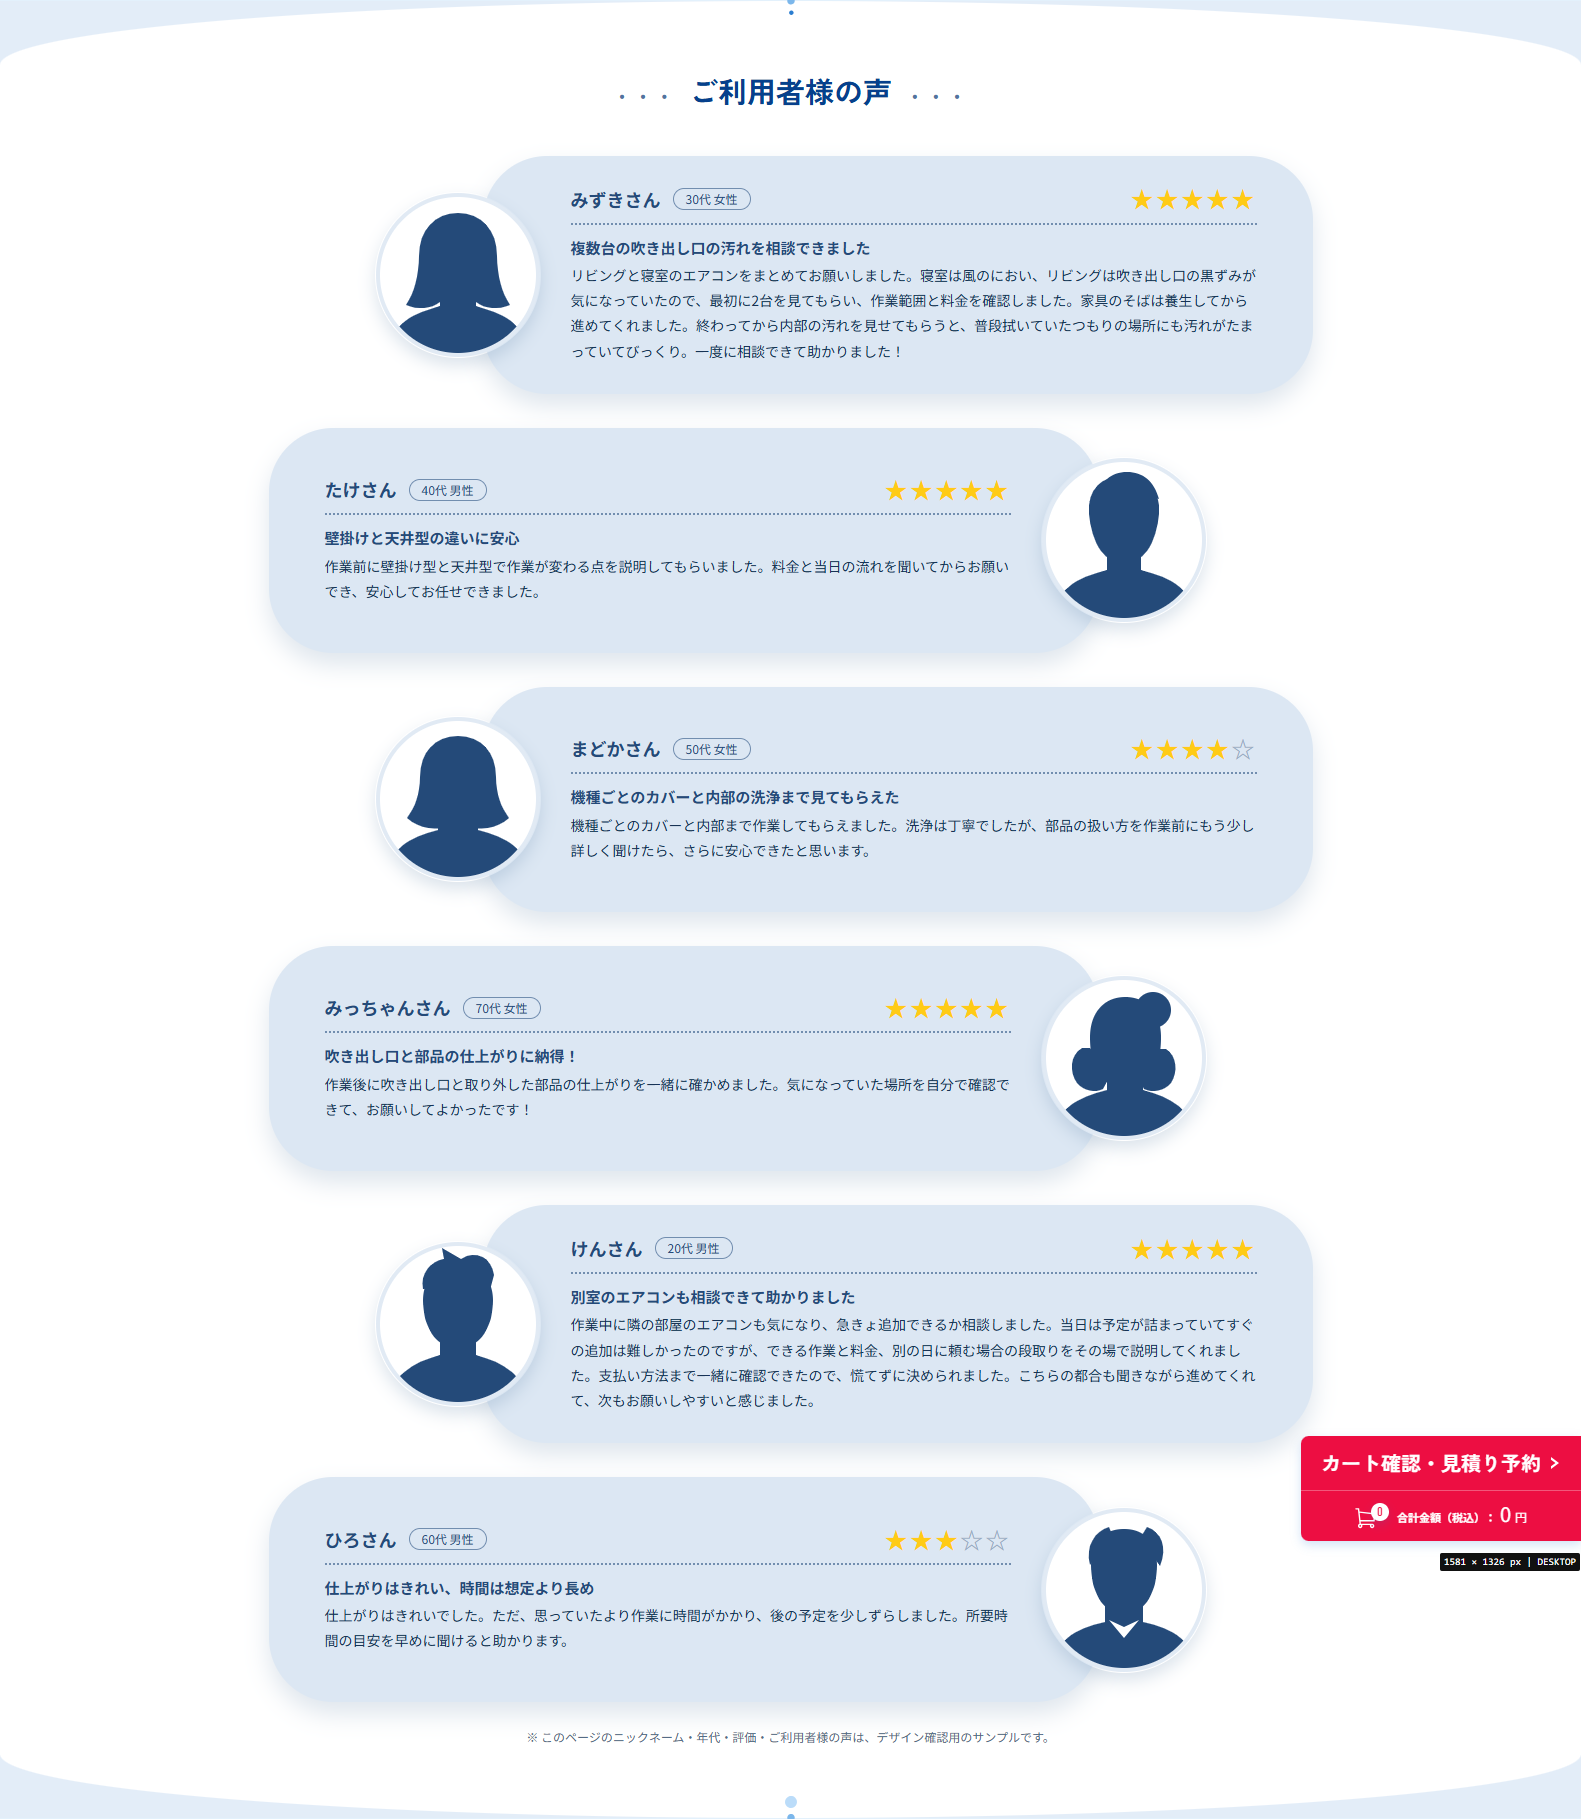
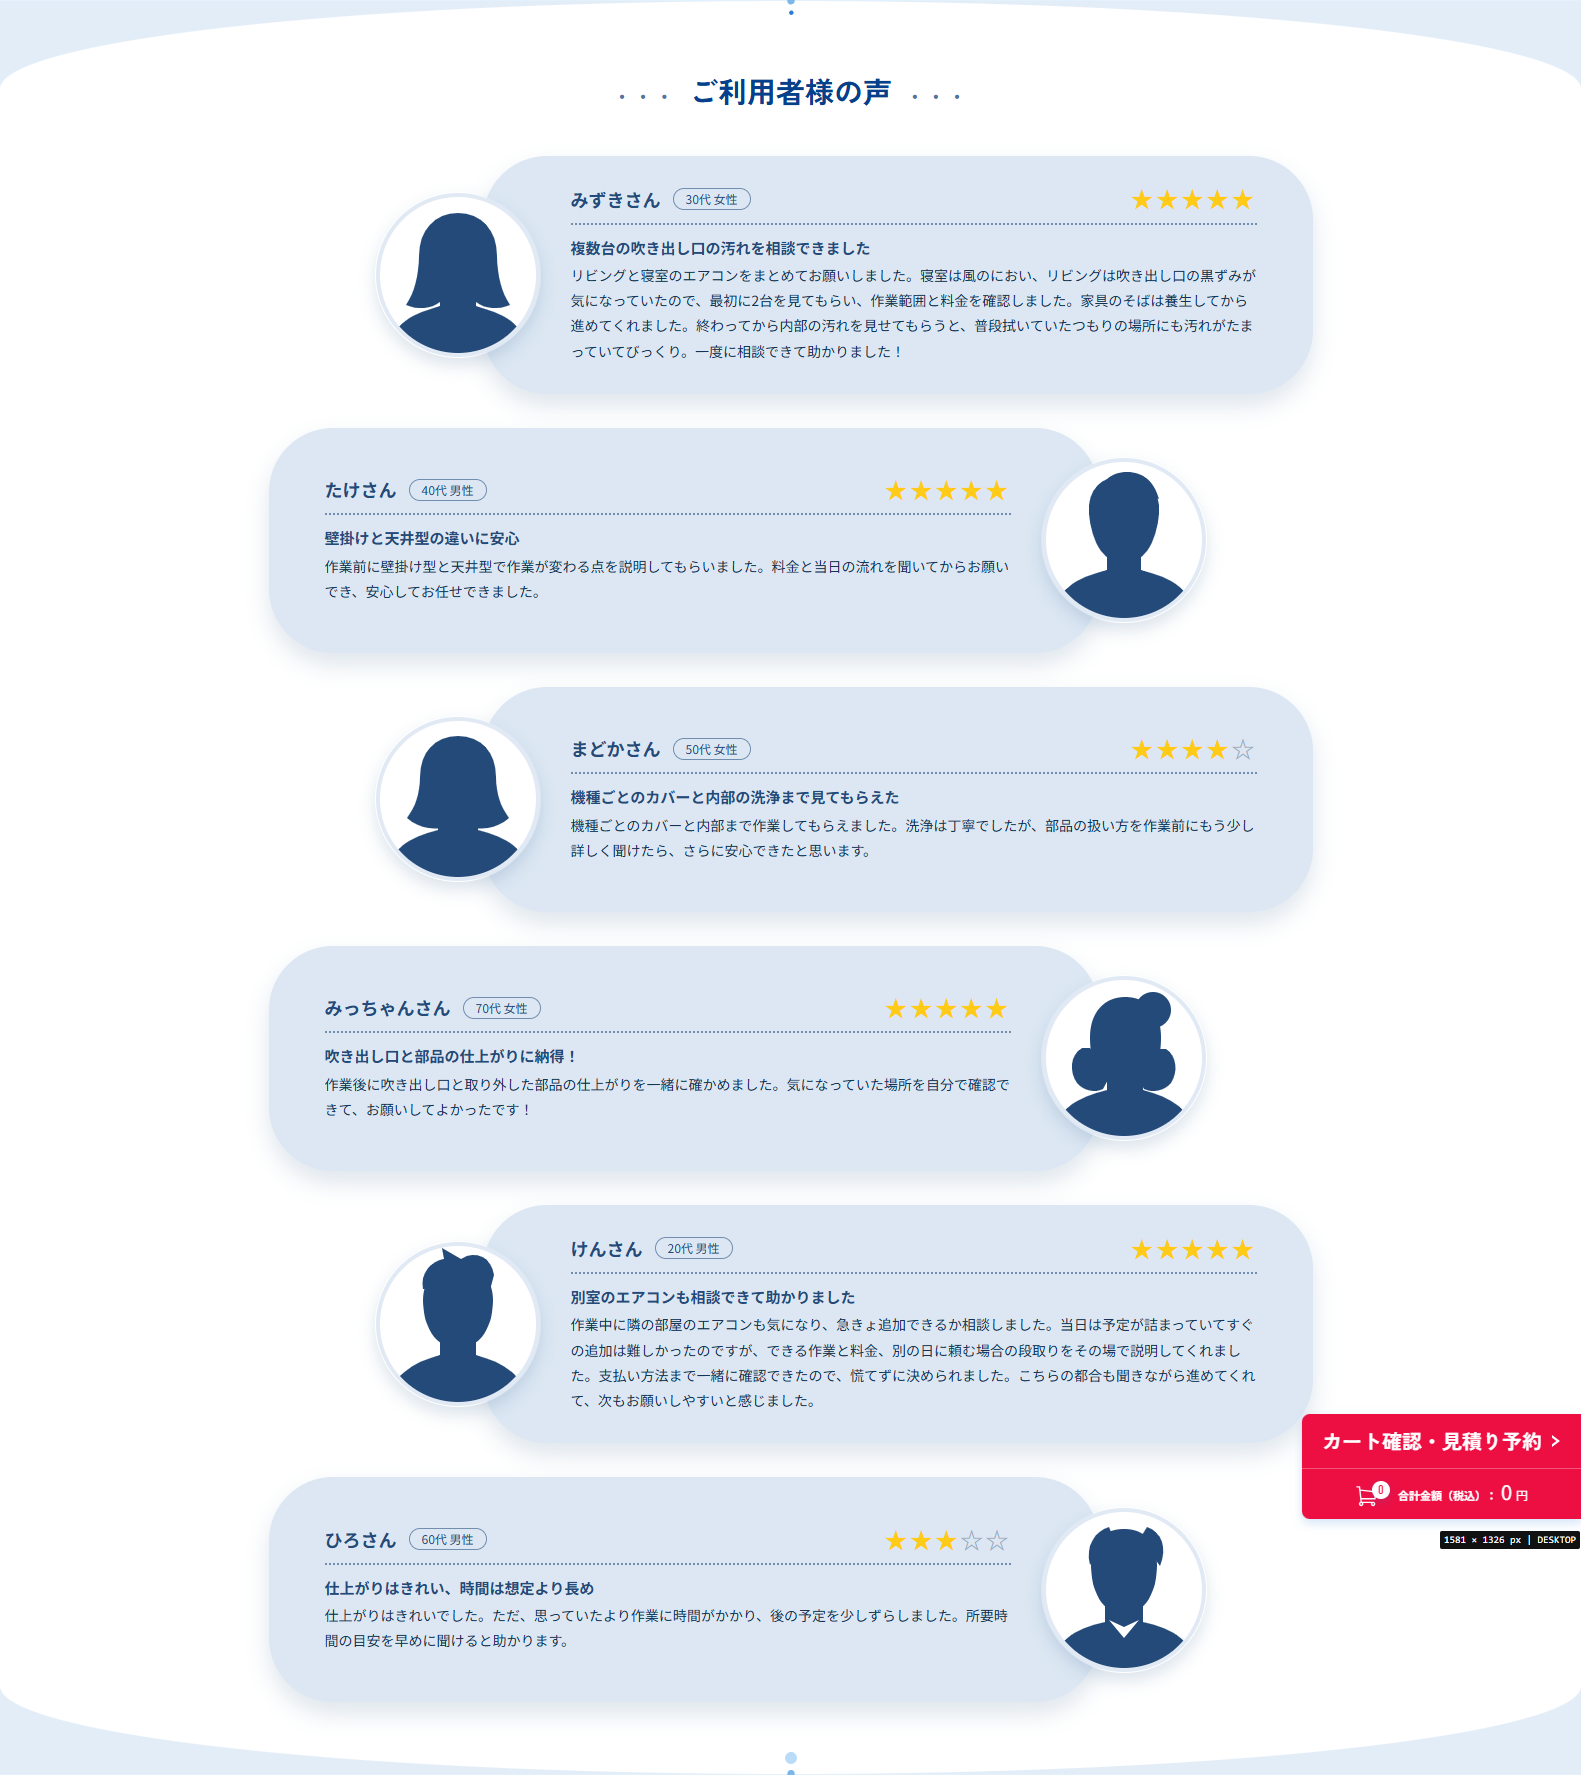
Record rounded aircon voice preview deployment

diff --git a/変更履歴.md b/変更履歴.md
@@ -7,6 +7,7 @@
 - 決定内容：エアコン限定の白いセクション背景の曲線をPCは `50% / 64px` から `50% / 88px`、スマートフォンは `50% / 28px` から `50% / 40px` にする。HTML生成から注記を除き、不要になったCSSを削除する。試作用の仮文であることは管理文書に記録し、ほかの45ページの声セクションは変更しない。
 - 影響範囲：`/house-cleaning/aircon/`、専用CSS、ページ生成・検査ツール。
 - ローカル確認：1581px・390pxの画面を撮影し、上下の曲線が前版より深く、末尾の注記が消え、見出しと6件の声が読めることを目視確認。46サービスページの構造検査、50ページ・116画面幅のブラウザー検査、1398ファイルの整合性検査が通過。
+- 公開確認：ソース実装 `762132e`、Pages `dd2e1c8`。Pages run `36944353064` が成功し、公開対象198件の照合が通過。公開ページの1581px・390px画面を `evidence/2026-10-02/public/aircon-voices-1581.png` と `aircon-voices-390.png` に保存し、丸みと注記の削除を目視確認。デザインの最終採否は利用者の確認待ち。
 
 ## CHG-2026-10-02-059 エアコンのご利用者様の声を吹き出し型で試作
 
